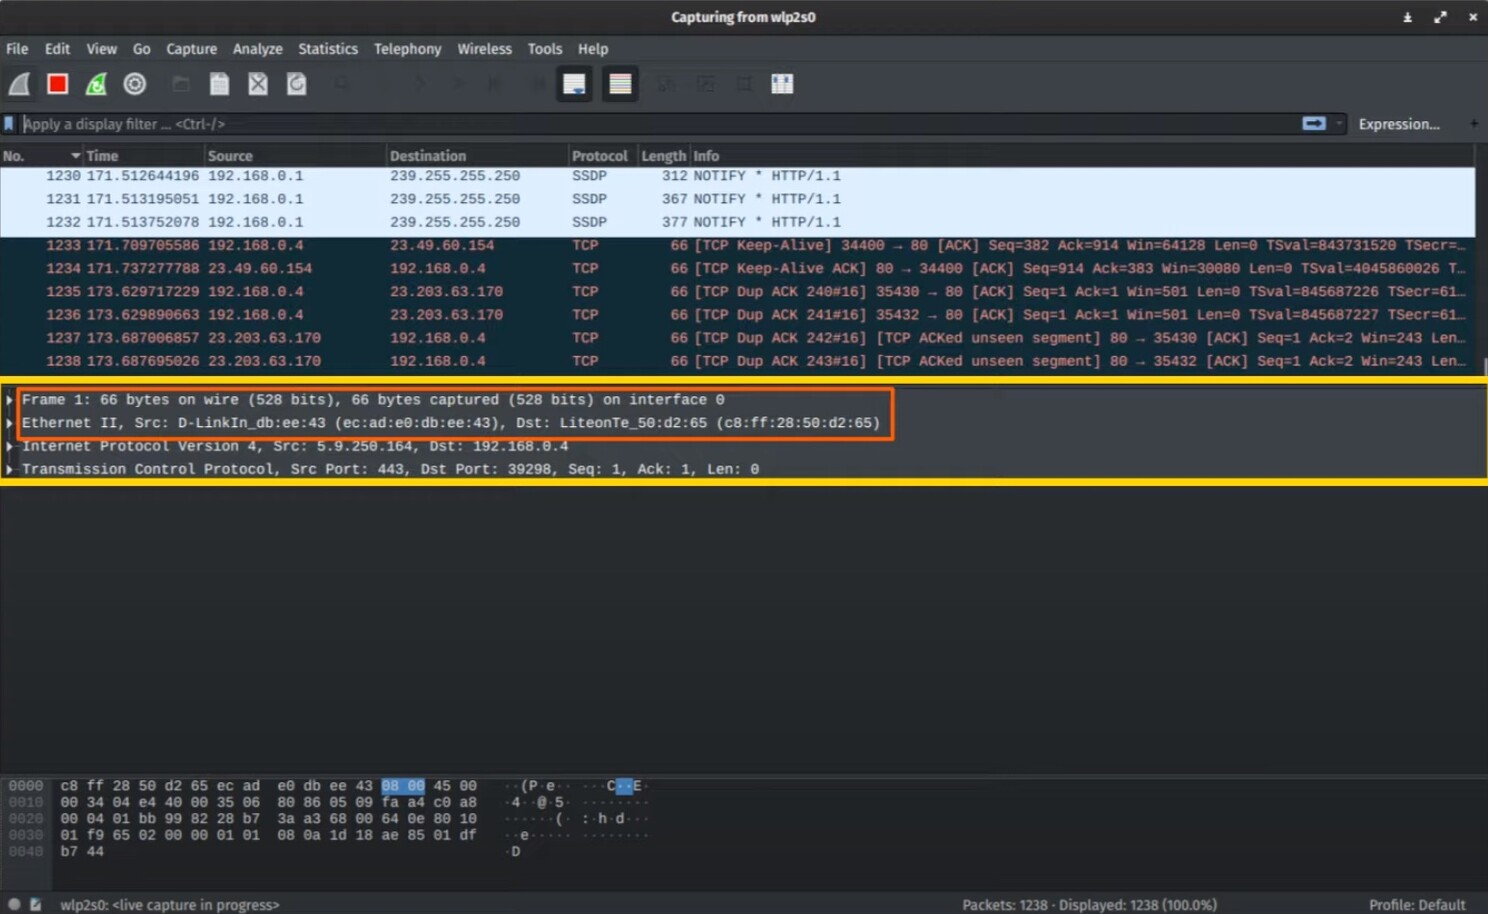
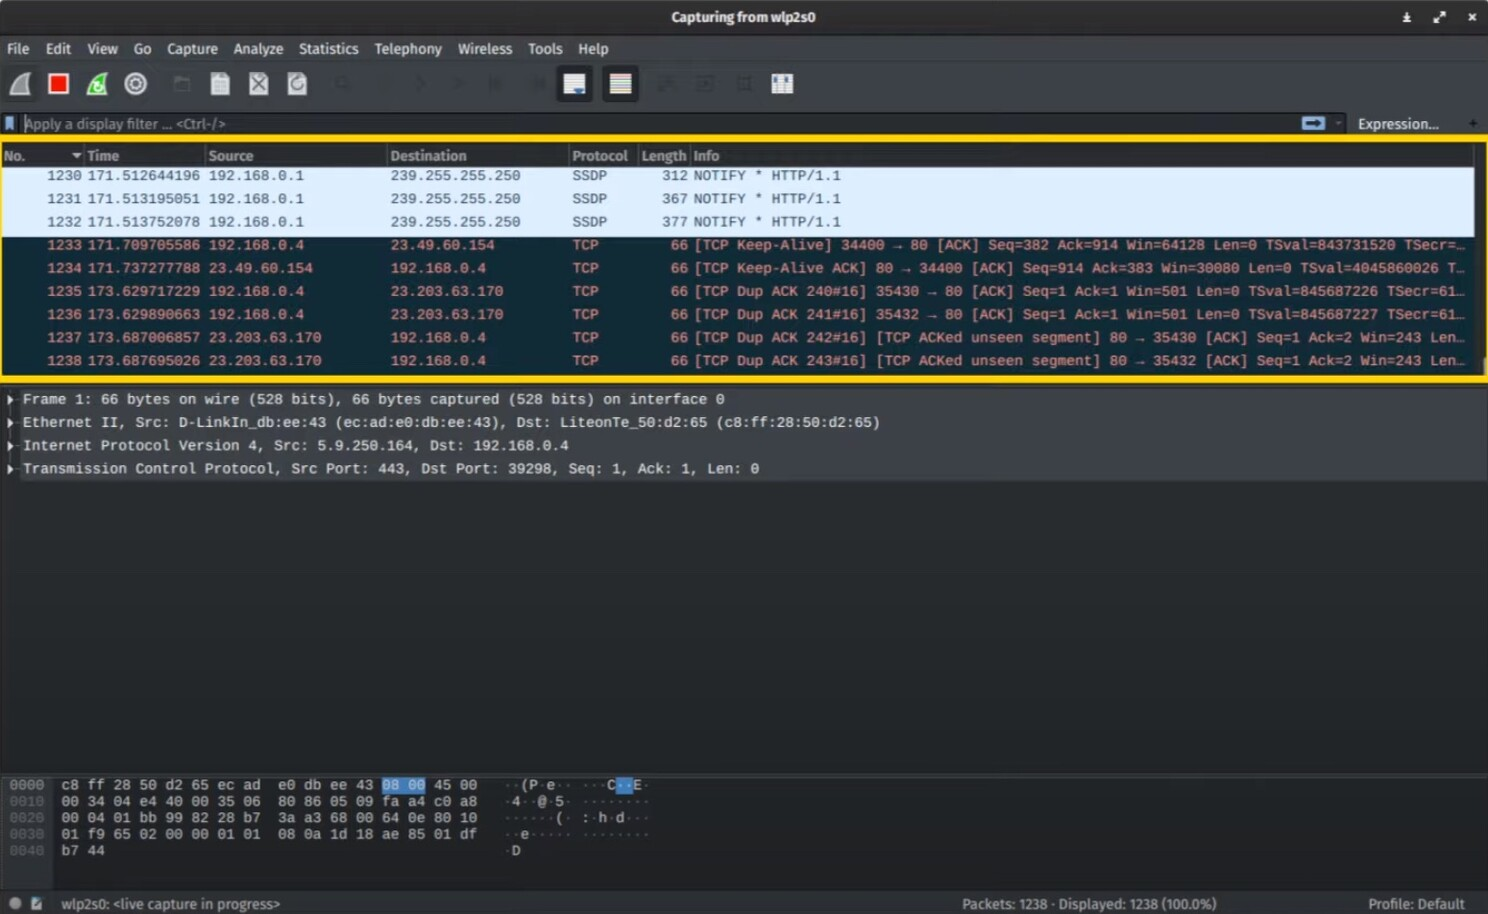
GITBOOK-388: No subject

diff --git a/2.-introduction-to-cybersecurity/the-cybersecurity-threat-landscape.md b/2.-introduction-to-cybersecurity/the-cybersecurity-threat-landscape.md
@@ -106,7 +106,7 @@ _processes in the physical world are measured, the resulting data is analysed, a
 
 Kool et al. (2017) see “a return to the so-called ‘cybernetic thinking’ that attracted interest in the 1950s and 1960s.” In cybernetics “biological, social and cognitive processes can be understood in terms of information processes and systems, and thus digitally programmed and controlled” (p. 44). Based on the various phases in the cybernetic loop--collection, analysis, and application--the authors “see various ethical and social issues emerging” related to the development of technology that require attention in the coming years. The new wave of digitization is “leading to a world in which continuous feedback and realtime management and control are increasingly important principles for a range of services.” This exerts “a strain on important public values” such as privacy, equity and equality, autonomy and human dignity. These values are clustered into seven topics (see Table 3: Overview of Ethical and Societal Issues Related to Digitization). Analysis of the scientific literature on technologies revealed several recurring themes – “privacy, autonomy, security, controlling technology, human dignity, equity and inequality, and power relations” (Kool et al., 2017, p. 47).
 
-<figure><img src="../.gitbook/assets/image (1) (1) (1).png" alt=""><figcaption><p>Table 3: Overview of Ethical and Societal Issues Related to Digitization (Kool et al., 2017, p. 8)</p></figcaption></figure>
+<figure><img src="../.gitbook/assets/image (1) (1) (1) (1).png" alt=""><figcaption><p>Table 3: Overview of Ethical and Societal Issues Related to Digitization (Kool et al., 2017, p. 8)</p></figcaption></figure>
 
 Kool et al. (2017) argue that while initially digitization processes consisted of “the large-scale collection of data on the physical, biological and social world,” a new wave of digitization characterized by continuous, cybernetic, feedback loops is focused on the large-scale analysis and application of that data. Nowadays “we can analyse this data on a large scale and apply the acquired knowledge directly in the real world” (p. 43). On one hand, real-time intervention and cybernetic (re)directing can be beneficial to society in various sectors--e.g., self-driving cars that update their digital maps through experience (learning). On the other hand, “Take for example social media users’ newsfeeds, which social media companies are now ‘customizing’ based on their monitoring and analysis of these same users’ surfing behaviour” (Kool et al., 2017, p. 25). Surveillance capitalism “commodifies personal clicking behavior” -- “it unilaterally claims private human experience as a free source of raw material” (Thompson, 2019). Social media sites are “calibrated” for user engagement and interaction. Surveillance can influence user behavior in complex ways, including unconsciously--hitting either the information security or the political autonomy of citizens. Data surveillance “can unconsciously influence a user’s identity, and lead to ‘filter bubbles’, in which the system only suggests news, information and contacts that match the user’s previous behaviour, choices and interests” (Kool et al., 2017, p. 10).
 

diff --git a/5.-wireless-security-and-cryptography/introduction-wireless-security-and-cryptography/README.md b/5.-wireless-security-and-cryptography/introduction-wireless-security-and-cryptography/README.md
@@ -27,22 +27,22 @@ This chapter covers how SSL/TLS uses cryptographic tools (symmetric encryption, 
 
 ## Topics covered in this chapter
 
-[Hashing algorithms and message integrity](hashing-algorithms-and-message-integrity/)
+[Hashing algorithms and message integrity](../hashing-algorithms-and-message-integrity/)
 
-[Cryptographic encryption and confidentiality](cryptographic-encryption-and-confidentiality.md)
+[Cryptographic encryption and confidentiality](../cryptographic-encryption-and-confidentiality.md)
 
-[The SSL/TLS handshake](the-ssl-tls-handshake.md)
+[The SSL/TLS handshake](../the-ssl-tls-handshake.md)
 
-[Message signing using asymmetric keys](message-signing-using-asymmetric-keys.md)
+[Message signing using asymmetric keys](../message-signing-using-asymmetric-keys.md)
 
-[Authentication methods](authentication-methods.md)
+[Authentication methods](../authentication-methods.md)
 
-[Replay attacks and anti-replay methods](replay-attacks-and-anti-replay-methods.md)
+[Replay attacks and anti-replay methods](../replay-attacks-and-anti-replay-methods.md)
 
-[Generating and applying an RSA key](generating-and-applying-an-rsa-key.md)
+[Generating and applying an RSA key](../generating-and-applying-an-rsa-key.md)
 
-[IEEE 802.11 authentication methods](ieee-802.11-authentication-methods.md)
+[IEEE 802.11 authentication methods](../ieee-802.11-authentication-methods.md)
 
-[IEEE 802.11 privacy and integrity methods](ieee-802.11-privacy-and-integrity-methods.md)
+[IEEE 802.11 privacy and integrity methods](../ieee-802.11-privacy-and-integrity-methods.md)
 
-[Authentication and encryption in WPA, WPA2, and WPA3](authentication-and-encryption-in-wpa-wpa2-and-wpa3.md)
+[Authentication and encryption in WPA, WPA2, and WPA3](../authentication-and-encryption-in-wpa-wpa2-and-wpa3.md)

diff --git a/SUMMARY.md b/SUMMARY.md
@@ -44,7 +44,8 @@
 
 ## 5. Wireless security and cryptography
 
-* [Introduction - Wireless security and cryptography](5.-wireless-security-and-cryptography/introduction-wireless-security-and-cryptography.md)
+* [Introduction - Wireless security and cryptography](5.-wireless-security-and-cryptography/introduction-wireless-security-and-cryptography/README.md)
+  * [How SSL/TLS uses Cryptography](5.-wireless-security-and-cryptography/introduction-wireless-security-and-cryptography/how-ssl-tls-uses-cryptography.md)
 * [Hashing algorithms and message integrity](5.-wireless-security-and-cryptography/hashing-algorithms-and-message-integrity/README.md)
   * [Understanding hash, digest, checksum, and fingerprint](5.-wireless-security-and-cryptography/hashing-algorithms-and-message-integrity/understanding-hash-digest-checksum-and-fingerprint.md)
 * [Cryptographic encryption and confidentiality](5.-wireless-security-and-cryptography/cryptographic-encryption-and-confidentiality.md)

diff --git a/6.-practical-foundations-in-ethical-hacking/defensive-cybersecurity-technologies/how-to-get-started-with-wireshark.md b/6.-practical-foundations-in-ethical-hacking/defensive-cybersecurity-technologies/how-to-get-started-with-wireshark.md
@@ -10,7 +10,7 @@ Although there is a lot you can learn about Wireshark, it’s quite easy to get 
 
 Up here you can see the packets as they are sent or received by the network interface you are capturing traffic from:
 
-<figure><img src="../../.gitbook/assets/image.png" alt=""><figcaption></figcaption></figure>
+<figure><img src="../../.gitbook/assets/image (1).png" alt=""><figcaption></figcaption></figure>
 
 If you click on a packet you can see more details.
 
@@ -26,7 +26,7 @@ As you can see here, the entire frame is indeed captured.
 
 \>Transmission Control Protocol (TCP) is the Layer 4 segment
 
-<figure><img src="../../.gitbook/assets/image (1).png" alt=""><figcaption></figcaption></figure>
+<figure><img src="../../.gitbook/assets/image (1) (1).png" alt=""><figcaption></figcaption></figure>
 
 At the end of this demonstration you will be asked to do a few basic tasks to try out in Wireshark, so you will need to download Wireshark if you want to do them.
 

diff --git a/README.md b/README.md
@@ -67,7 +67,7 @@ This chapter covers Governance, Risk, and Compliance as a risk management framew
 
 This chapter covers host to host communication across networks (how data flows through the network).
 
-5. [Chapter 5: Wireless security and cryptography](5.-wireless-security-and-cryptography/introduction-wireless-security-and-cryptography.md)
+5. [Chapter 5: Wireless security and cryptography](5.-wireless-security-and-cryptography/introduction-wireless-security-and-cryptography/)
 
 This chapter covers how SSL/TLS secures data in transit, and the IEEE 802.11 wireless standard (WPA, WPA2, and WPA3 wireless protocols).
 

diff --git a/5.-wireless-security-and-cryptography/introduction-wireless-security-and-cryptography/how-ssl-tls-uses-cryptography.md b/5.-wireless-security-and-cryptography/introduction-wireless-security-and-cryptography/how-ssl-tls-uses-cryptography.md
@@ -1,0 +1,11 @@
+---
+hidden: true
+---
+
+# How SSL/TLS uses Cryptography
+
+This section explains how cryptographic tools (symmetric/asymmetric encryption, and hashing) secure Internet communications via SSL/TLS.
+
+<figure><img src="../../.gitbook/assets/ssl-crypto.png" alt="ssl-tls-cryptography"><figcaption><p>How SSL/TLS uses cryptographic tools to secure data transmission (image courtesy of Ed Harmoush, Practical Networking)</p></figcaption></figure>
+
+How SSL/TLS uses Cryptography
